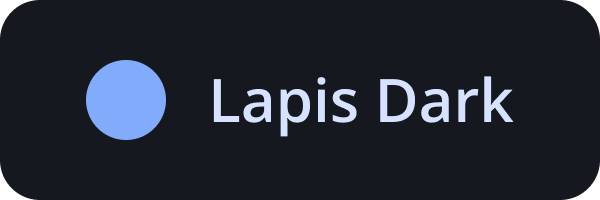
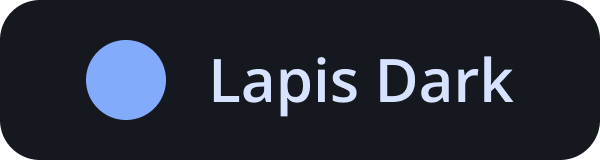
📖 DOC: Update theme link buttons in readme

diff --git a/CHANGELOG.md b/CHANGELOG.md
@@ -2,6 +2,10 @@
 
 All notable changes to the "lapis" extension will be documented in this file.
 
+## "1.6.1"
+
+- Update theme link buttons in readme.
+
 ## "1.6.0"
 
 - Add new Lapis Amethyst Light Theme.
